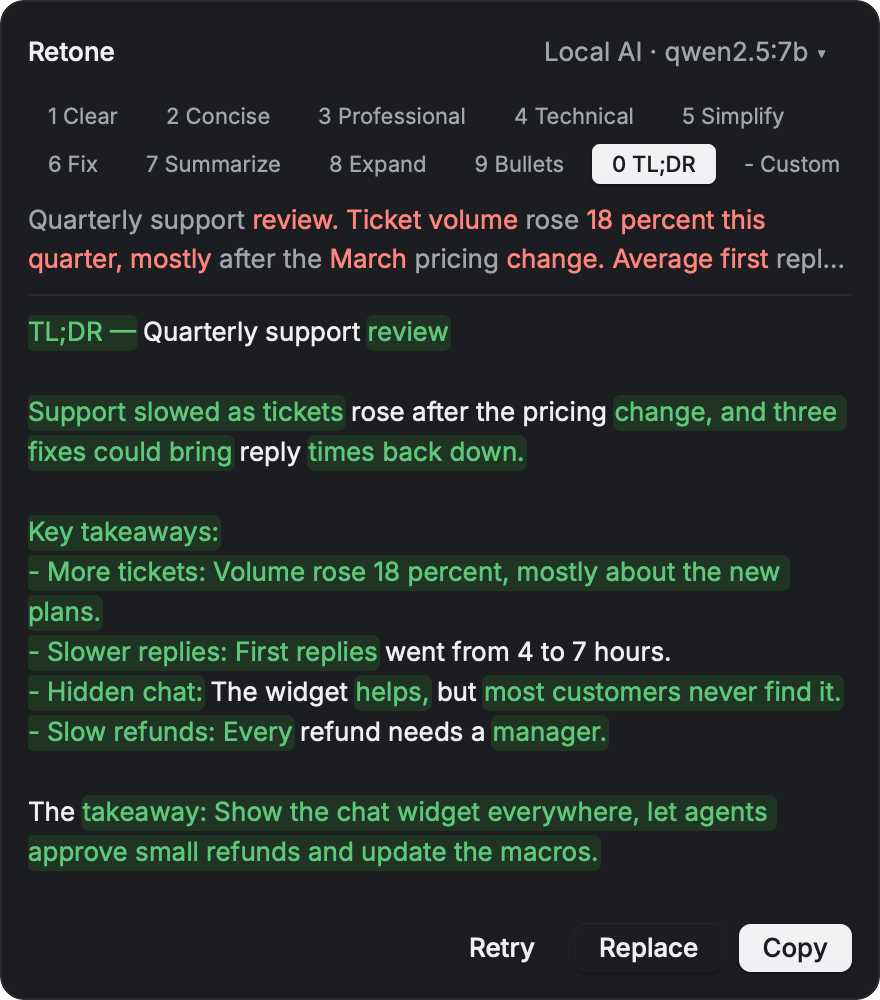
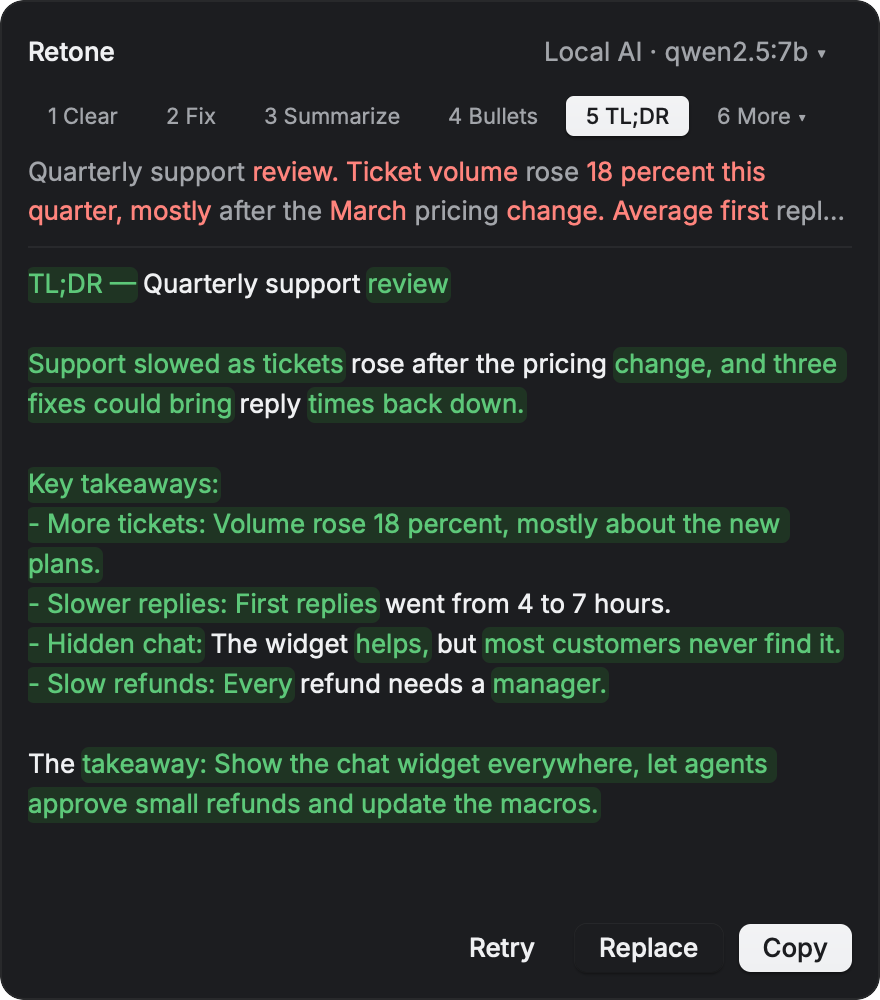
feat(popup): show one row of styles and put the rest behind More
Amp-Thread-ID: https://ampcode.com/threads/T-01a21c32-2a7c-72d4-8db6-7944460c86ac

Changed region(s): [[0.0307, 0.093, 0.9511, 0.868]]

diff --git a/src/popup/view.rs b/src/popup/view.rs
@@ -4,13 +4,14 @@ use super::Popup;
 use crate::config::Config;
 use crate::flow::{Event, Notice, Phase, State};
 use crate::provider::consent;
-use crate::styles::{PRESETS, Style, TONES};
+use crate::styles::{MAIN, PRESETS, Style};
 use rune::{Cx, El, LiveRegion, ScrollSpec, Span, Tx, col, el, row, spacer, text};
 use rune_kit::{Button, ButtonVariant, ControlSize, Kit, List, ListItem, Spinner};
 
-/// The styles the picker offers, in key order 1–9, 0, then -: the presets, then Custom when it is set.
-pub fn styles(config: &Config) -> Vec<Style> {
-    let mut all = PRESETS.to_vec();
+/// The styles behind More, in key order 1–9: the presets not on the main row, then Custom when it
+/// is set.
+pub fn more_styles(config: &Config) -> Vec<Style> {
+    let mut all: Vec<Style> = PRESETS.iter().filter(|style| !MAIN.contains(style)).cloned().collect();
     if !config.custom_style.trim().is_empty() {
         all.push(Style::Custom(config.custom_style.trim().to_string()));
     }
@@ -47,9 +48,10 @@ pub fn spoken(p: &Popup) -> Option<(String, LiveRegion)> {
 
 pub fn view(p: &Popup, cx: &mut Cx<Popup>) -> El {
     let k = p.config.theme.kit(cx.system_dark());
-    let body = match (&p.picker, &p.flow.state) {
-        (Some(picker), _) => picker_body(p, &k, picker),
-        (None, state) => state_body(p, &k, state),
+    let body = match (&p.picker, p.more, &p.flow.state) {
+        (Some(picker), _, _) => picker_body(p, &k, picker),
+        (None, Some(selected), State::Previewing { style, .. }) => more_body(p, &k, selected, style),
+        (None, _, state) => state_body(p, &k, state),
     };
     col()
         .key("popup")
@@ -146,6 +148,39 @@ fn picker_body(p: &Popup, k: &Kit, picker: &super::Picker) -> El {
         .child(text(hint).font(k.ty.text_xsmall).color(k.c.text_muted).label(spoken_hint(picker.listing)))
 }
 
+/// The styles that are not on the main row, as a list like the provider list.
+fn more_body(p: &Popup, k: &Kit, selected: usize, current: &Style) -> El {
+    let mut list = List::new().active(Some(selected));
+    for (index, style) in more_styles(&p.config).into_iter().enumerate() {
+        list = list.item(
+            ListItem::new(format!("{}  {}", index + 1, style.name()))
+                .selected(style == *current)
+                .on_select(move |p: &mut Popup, tx: &mut Tx| p.choose_more(index, tx)),
+        );
+    }
+    col()
+        .w_full()
+        .grow(1.0)
+        .min_h(0.0)
+        .gap(8.0)
+        .child(
+            col()
+                .key("more-styles")
+                .w_full()
+                .grow(1.0)
+                .min_h(0.0)
+                .scroll(ScrollSpec { stick_bottom: false })
+                .label(t!("popup.more.label"))
+                .child(list.build(k)),
+        )
+        .child(
+            text(t!("popup.more.hint"))
+                .font(k.ty.text_xsmall)
+                .color(k.c.text_muted)
+                .label(t!("popup.more.spoken_hint")),
+        )
+}
+
 fn loading(k: &Kit, label: &str) -> El {
     row()
         .key("loading")
@@ -230,7 +265,7 @@ fn consent_body(p: &Popup, k: &Kit) -> El {
 }
 
 fn preview_body(p: &Popup, k: &Kit, original: &str, style: &Style, phase: &Phase, can_replace: bool) -> El {
-    let picker = style_picker(p, k, style);
+    let picker = style_picker(k, style);
     // Removed words in red on the original, added words on a green background in the rewrite.
     let (removed, added) = match phase {
         Phase::Ready(rewrite) => crate::diff::changed_words(original, rewrite),
@@ -323,43 +358,42 @@ fn scrolling(k: &Kit, key: &str, value: &str, spans: Vec<Span>, follow: bool) ->
         .child(text(value.to_string()).font(k.ty.ui).color(k.c.text_strong).wrap().selectable(true).spans(spans))
 }
 
-/// The key that picks the style at `index`: 1–9, 0 for the tenth, then - for the eleventh (Custom).
-pub fn style_key(index: usize) -> String {
-    if index >= 10 { "-".to_string() } else { ((index + 1) % 10).to_string() }
-}
-
-/// Two rows, tones then actions with Custom, so every style keeps a visible chip and one key.
-fn style_picker(p: &Popup, k: &Kit, current: &Style) -> El {
-    let mut chips: Vec<El> = styles(&p.config)
-        .into_iter()
-        .enumerate()
-        .map(|(index, style)| {
-            let on = style.name() == current.name();
-            let key = style_key(index);
-            let chosen = style.clone();
-            // Small chips, so the five tones fit one row of the 440 pt popup.
-            Button::new(format!("{key} {}", style.name()))
-                .control_size(ControlSize::Small)
-                .variant(if on { ButtonVariant::Contrast } else { ButtonVariant::GhostMuted })
+/// One row: the main styles on keys 1–5, then More on 6. When the current style is behind More,
+/// that chip shows its name, so the row always says which style made the preview.
+fn style_picker(k: &Kit, current: &Style) -> El {
+    let chip = |key: String, name: &str, on: bool| {
+        Button::new(format!("{key} {name}")).control_size(ControlSize::Small).variant(if on {
+            ButtonVariant::Contrast
+        } else {
+            ButtonVariant::GhostMuted
+        })
+    };
+    let mut row = row().key("styles").w_full().gap(4.0).label(t!("popup.style_picker"));
+    for (index, style) in MAIN.iter().enumerate() {
+        let on = style == current;
+        let chosen = style.clone();
+        let key = (index + 1).to_string();
+        row = row.child(
+            chip(key.clone(), style.name(), on)
                 .on_press_tx(move |p: &mut Popup, tx: &mut Tx| p.step(Event::ChangeStyle(chosen.clone()), tx))
                 .build(k)
                 // The digit in the visible label is the key; read the name, state and key apart.
                 .label(t!("popup.style_label", name = style.name()))
                 .checked(on)
-                .shortcut_hint(key)
-        })
-        .collect();
-    let actions = chips.split_off(TONES);
-    let chip_row = |key: &str, label: &str, chips: Vec<El>| {
-        chips.into_iter().fold(row().key(key.to_string()).w_full().gap(4.0).label(label), |row, chip| row.child(chip))
-    };
-    col()
-        .key("styles")
-        .w_full()
-        .gap(4.0)
-        .label(t!("popup.style_picker"))
-        .child(chip_row("tones", t!("popup.style_tones"), chips))
-        .child(chip_row("actions", t!("popup.style_actions"), actions))
+                .shortcut_hint(key),
+        );
+    }
+    let in_more = !MAIN.contains(current);
+    let more_name = if in_more { current.name() } else { t!("popup.more") };
+    let key = (MAIN.len() + 1).to_string();
+    row.child(
+        chip(key.clone(), &format!("{more_name} ▾"), in_more)
+            .on_press(|p: &mut Popup| p.toggle_more())
+            .build(k)
+            .label(t!("popup.more.button", name = more_name))
+            .checked(in_more)
+            .shortcut_hint(key),
+    )
 }
 
 #[cfg(test)]
@@ -395,14 +429,31 @@ mod tests {
 
         let mut p = previewing(Phase::Ready("b".into()), true);
         p.config.custom_style = "Rhyme.".into();
-        let key = |p: &mut Popup, text: &str| {
-            let ev = rune::KeyEvent { key: rune::Key::Text(text.into()), mods: rune::Mods::default() };
-            super::super::on_key(p, &ev, &mut Tx::default());
+        let key = |p: &mut Popup, key: rune::Key| {
+            super::super::on_key(p, &rune::KeyEvent { key, mods: rune::Mods::default() }, &mut Tx::default());
         };
-        key(&mut p, "0");
-        assert!(matches!(&p.flow.state, State::Previewing { style: Style::Tldr, .. }), "0 picks TL;DR");
-        key(&mut p, "-");
-        assert!(matches!(&p.flow.state, State::Previewing { style: Style::Custom(_), .. }), "- picks Custom");
+        let digit = |d: &str| rune::Key::Text(d.into());
+        key(&mut p, digit("5"));
+        assert!(matches!(&p.flow.state, State::Previewing { style: Style::Tldr, .. }), "5 picks TL;DR");
+
+        // 6 opens More; its rows have their own keys 1–9, and Custom is the last row.
+        let more = more_styles(&p.config);
+        assert_eq!(more.first(), Some(&Style::Concise));
+        assert!(matches!(more.last(), Some(Style::Custom(_))));
+        key(&mut p, digit("6"));
+        assert!(p.more.is_some(), "6 opens More");
+        key(&mut p, digit(&more.len().to_string()));
+        assert!(p.more.is_none());
+        assert!(matches!(&p.flow.state, State::Previewing { style: Style::Custom(_), .. }), "the last row is Custom");
+
+        // In More, keys pick rows, not the main styles, and Esc closes it without a change.
+        key(&mut p, digit("6"));
+        key(&mut p, digit("1"));
+        assert!(matches!(&p.flow.state, State::Previewing { style: Style::Concise, .. }), "row 1 is Concise");
+        key(&mut p, digit("6"));
+        key(&mut p, rune::Key::Escape);
+        assert!(p.more.is_none());
+        assert!(matches!(&p.flow.state, State::Previewing { style: Style::Concise, .. }), "Esc keeps the style");
     }
 
     #[test]

diff --git a/src/popup/mod.rs b/src/popup/mod.rs
@@ -13,7 +13,7 @@ use crate::placement::{self, Rect};
 use crate::provider::{self, Cancel, Outcome, Provider, consent};
 use crate::settings::SettingsUi;
 use crate::shared::Shared;
-use crate::styles::Style;
+use crate::styles::{MAIN, Style};
 use rune::machine::{Attempt, Effects};
 use rune::{AppHandle, Key, KeyEvent, Latest, Tx};
 use std::sync::{Arc, Mutex};
@@ -40,6 +40,8 @@ pub struct Popup {
     pub adapter_warning: Option<String>,
     /// The provider list, open over the current state (⌘P or a click on the header label).
     pub picker: Option<Picker>,
+    /// The More list of styles, open over the preview, with its highlighted row.
+    pub more: Option<usize>,
     request: Latest<(Attempt, Outcome)>,
     /// Models the local endpoint lists, fetched when the provider list opens.
     local_models: Latest<Result<Vec<String>, String>>,
@@ -92,6 +94,7 @@ impl Default for Popup {
             given: None,
             adapter_warning: None,
             picker: None,
+            more: None,
             request: Latest::default(),
             local_models: Latest::default(),
             cancel: Cancel::default(),
@@ -166,6 +169,7 @@ impl Popup {
         self.provider = checked.ok();
         self.adapter_warning = None;
         self.picker = None;
+        self.more = None;
         self.flow.default_style = style.map_or_else(|| self.config.style(), |index| self.config.style_at(index));
         let effects = self.flow.step(Event::Hotkey { has_provider: self.provider.is_some() });
         self.run(effects, tx);
@@ -199,6 +203,7 @@ impl Popup {
 
     /// Opens the provider list, or closes it when it is open.
     pub fn toggle_picker(&mut self) {
+        self.more = None;
         if self.picker.take().is_some() {
             return;
         }
@@ -265,6 +270,22 @@ impl Popup {
         self.provider_problem = None;
         self.adapter_warning = None;
         self.step(Event::ProviderChanged { consented }, tx);
+    }
+
+    /// Opens the More list on the current style, or closes it when it is open.
+    pub fn toggle_more(&mut self) {
+        if self.more.take().is_some() {
+            return;
+        }
+        let State::Previewing { style, .. } = &self.flow.state else { return };
+        self.more = Some(view::more_styles(&self.config).iter().position(|s| s == style).unwrap_or(0));
+    }
+
+    /// Picks the More list's row `index` and reruns in that style; a key with no row keeps the list open.
+    pub fn choose_more(&mut self, index: usize, tx: &mut Tx) {
+        let Some(style) = view::more_styles(&self.config).get(index).cloned() else { return };
+        self.more = None;
+        self.step(Event::ChangeStyle(style), tx);
     }
 
     /// Adds the listed local models to the open list, keeping the highlighted row.
@@ -433,6 +454,10 @@ pub fn on_key(p: &mut Popup, ev: &KeyEvent, tx: &mut Tx) -> bool {
         // The list holds the keys while open, so ⏎ or ⌘C cannot act on the rewrite behind it.
         return true;
     }
+    if let Some(selected) = p.more {
+        more_key(p, selected, ev, tx);
+        return true;
+    }
     let event = match &ev.key {
         Key::Command('p') => {
             p.toggle_picker();
@@ -447,12 +472,14 @@ pub fn on_key(p: &mut Popup, ev: &KeyEvent, tx: &mut Tx) -> bool {
         },
         Key::Command('c') => Event::Copy,
         Key::Command('r') => Event::Retry,
-        Key::Text(key) if !ev.mods.cmd => {
-            match view::styles(&p.config).into_iter().enumerate().find(|(index, _)| view::style_key(*index) == *key) {
-                Some((_, style)) => Event::ChangeStyle(style),
-                None => return false,
+        Key::Text(key) if !ev.mods.cmd => match digit_index(key) {
+            index if index < MAIN.len() => Event::ChangeStyle(MAIN[index].clone()),
+            index if index == MAIN.len() => {
+                p.toggle_more();
+                return true;
             }
-        }
+            _ => return false,
+        },
         _ => return false,
     };
     p.step(event, tx);
@@ -470,6 +497,19 @@ fn picker_key(p: &mut Popup, ev: &KeyEvent, tx: &mut Tx) {
         }
         Key::Escape | Key::Command('p') => p.picker = None,
         Key::Text(digit) if !ev.mods.cmd => p.choose(digit_index(digit), tx),
+        _ => {}
+    }
+}
+
+/// More list keys: ↑/↓ move, ⏎ uses the highlighted style, 1–9 use that row, ⎋ closes.
+fn more_key(p: &mut Popup, selected: usize, ev: &KeyEvent, tx: &mut Tx) {
+    let rows = view::more_styles(&p.config).len();
+    match &ev.key {
+        Key::Up => p.more = Some((selected + rows - 1) % rows),
+        Key::Down | Key::Tab => p.more = Some((selected + 1) % rows),
+        Key::Enter => p.choose_more(selected, tx),
+        Key::Escape => p.more = None,
+        Key::Text(digit) if !ev.mods.cmd => p.choose_more(digit_index(digit), tx),
         _ => {}
     }
 }

diff --git a/src/popup/scenes.rs b/src/popup/scenes.rs
@@ -36,7 +36,7 @@ pub const SCENES: &[Scene] = &[
         p.config.theme = Theme::KanagawaLotus;
         previewing(p, Phase::Ready(REWRITE.into()), true);
     }),
-    // Summarize: ↩ copies, Replace moves to ⌘↩; Custom set, so all eleven chips show.
+    // Summarize: ↩ copies, Replace moves to ⌘↩; Custom set, so More lists it.
     ("summary-example", |p| {
         previewing(p, Phase::Ready("The meeting moved to Tuesday; update your calendars.".into()), true);
         p.config.custom_style = "Make it friendly and short.".into();
@@ -73,6 +73,12 @@ pub const SCENES: &[Scene] = &[
                          every refund needs a manager's approval. The macros are out of date."
                 .into();
         }
+    }),
+    // The More list open over a preview, with Custom set so its last row shows.
+    ("more-example", |p| {
+        previewing(p, Phase::Ready(REWRITE.into()), true);
+        p.config.custom_style = "Make it friendly and short.".into();
+        p.more = Some(0);
     }),
     ("bullets-example", |p| {
         previewing(p, Phase::Ready("- The meeting moved to Tuesday.\n- Please update your calendars.".into()), true);

diff --git a/src/styles.rs b/src/styles.rs
@@ -34,11 +34,15 @@ pub const PRESETS: [Style; 10] = [
 ];
 
 /// The presets before this index change tone and wording; the rest are actions with one job
-/// each. The popup shows them on two rows, and `--eval-styles` checks them apart.
+/// each. `--eval-styles` checks them apart.
 pub const TONES: usize = 5;
 
-// Keys 1–9 and 0 pick the presets and - picks Custom, so there is no key for an eleventh preset.
-const _: () = assert!(PRESETS.len() <= 10);
+/// The styles on the popup's one row, keys 1–5: the same five as the right-click menu
+/// (`scripts/bundle.sh`). The others are behind More, so the row stays short.
+pub const MAIN: [Style; 5] = [Style::Clear, Style::Fix, Style::Summarize, Style::Bullets, Style::Tldr];
+
+// The More list picks its rows with keys 1–9, so it holds at most 9 styles, Custom included.
+const _: () = assert!(PRESETS.len() - MAIN.len() < 9);
 
 /// Below this many words (about one paragraph) a TL;DR is only its main-point sentence: a title,
 /// a list and a closing line would be about as long as the text.

diff --git a/README.md b/README.md
@@ -48,7 +48,7 @@ Good writing tools often live in one app, or send your text to a cloud you did n
 - 🖱 **Right-click menu**: select text, right-click, and pick Retone: Fix Spelling and Grammar, Improve Writing, Summarize, Bullet Points or TL;DR (under Services in some apps); the popup opens with a preview
 - 🎯 **Style shortcuts**: optional, one per style (Settings → Styles), to open the popup in that style
 - 📍 **Popup at the caret**: the popup opens next to your text, or at the mouse pointer when the app does not report a caret
-- ✍ **Styles**: tones (Clear, Concise, Professional, Technical, Simplify), actions (Fix spelling and grammar, Summarize, Expand, Bullet points, TL;DR), or your own instruction; press a number key to switch (0 is TL;DR, - is your own). For Summarize, Expand and TL;DR, ↩ copies the result and ⌘↩ replaces the selection
+- ✍ **Styles**: tones (Clear, Concise, Professional, Technical, Simplify), actions (Fix spelling and grammar, Summarize, Expand, Bullet points, TL;DR), or your own instruction. The popup shows one row (1 Clear, 2 Fix, 3 Summarize, 4 Bullets, 5 TL;DR); press 6 for More, a list of the other styles and your own. For Summarize, Expand and TL;DR, ↩ copies the result and ⌘↩ replaces the selection
 - 👀 **Preview first**: see the rewrite before anything changes; Enter replaces, ⌘C copies, ⌘R retries, Esc cancels
 - 🛡 **Safe replace**: Retone replaces only when the same app, field and selection are still there; on failure or cancel nothing changes, and your clipboard comes back
 - 🔀 **Switch provider in the popup**: click the provider label or press ⌘P to pick another provider or local model; Retone keeps the choice
@@ -121,7 +121,7 @@ Without the permission, Retone works in **clipboard mode**: copy the text first,
 
 1. Select text in any app.
 2. Press your hotkey (or choose **Rewrite Selection** from the Retone menu-bar item).
-3. Pick a style with a number key, and wait for the preview.
+3. Pick a style with a number key (1–5), or press **6** for **More** to see the other styles, and wait for the preview.
 4. **Enter** replaces the selection, **⌘C** copies the rewrite, **⌘R** tries again, **Esc** cancels.
 5. To use another provider or model, press **⌘P** (or click the provider label at the top right), choose with **↑/↓** or a number, and press **Enter**. Retone saves the choice for the next rewrite and asks for consent first if that provider and model are new.
 
@@ -133,7 +133,7 @@ You can use Retone without a hotkey:
 
 1. Select text in an app that supports Services, for example Safari, Chrome, Mail, Notes or TextEdit.
 2. Right-click the selection and choose **Retone: Fix Spelling and Grammar**, **Retone: Improve Writing**, **Retone: Summarize**, **Retone: Bullet Points** or **Retone: TL;DR**. When the menu has many items, macOS puts them under **Services ›**. You can also use the app menu: **App name › Services**.
-3. The popup opens with a preview in that style. You can change to a different style with a number key.
+3. The popup opens with a preview in that style. You can change to a different style with a number key, or with **6 More**.
 4. For Summarize and TL;DR, **Enter** copies the result and **⌘Enter** replaces the selection. For the other styles, **Enter** replaces.
 
 **TL;DR** is useful for long text, for example an article in Safari. When the text has about 150 words or more, you get a `TL;DR` line (with the text's own title, if it has one), the main point, key takeaways and one closing line. For a shorter text, you get only the main point in one sentence.
